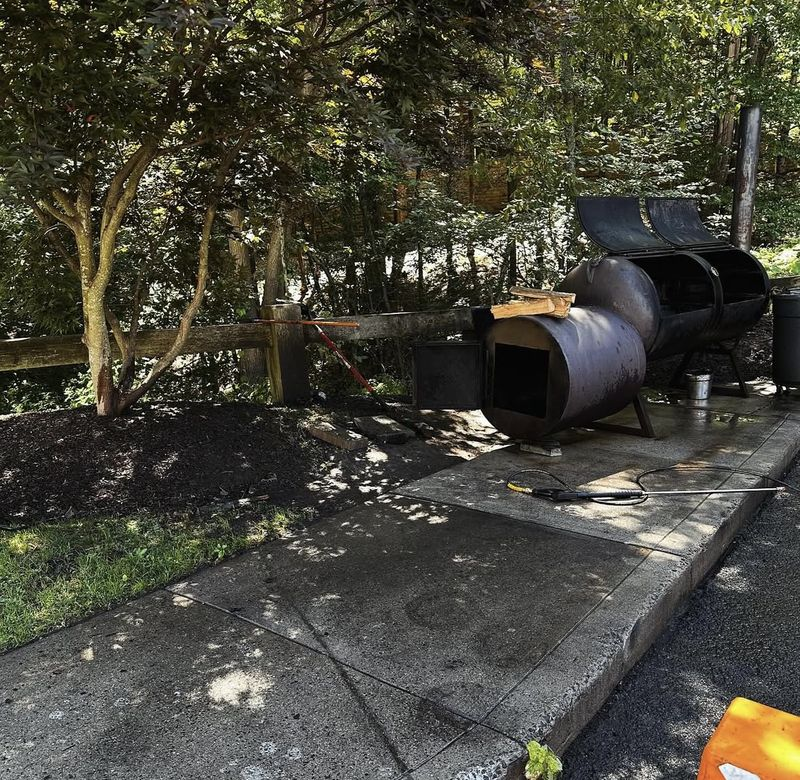
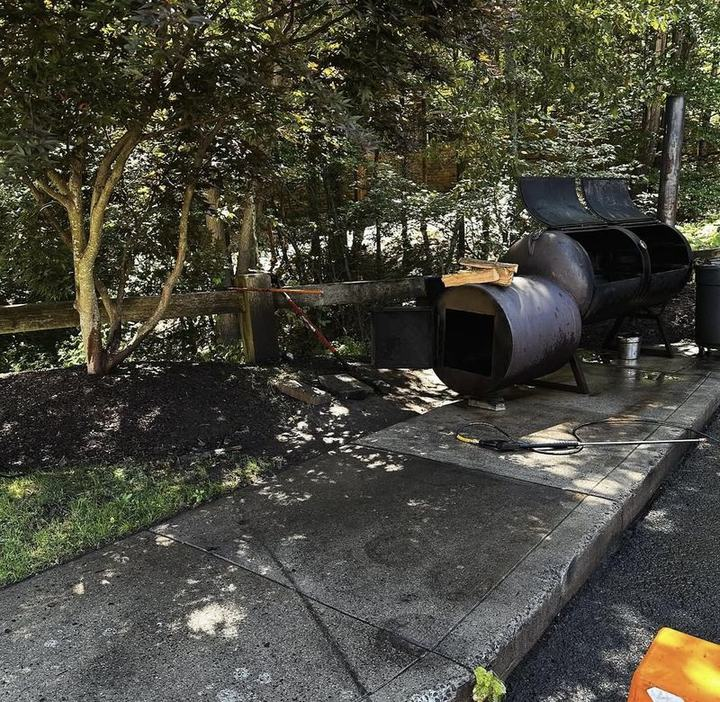
A2 prototype: SEO, structure, and alt text audit with fixes
Add founder and sameAs to business schema, drop a non-standard schema
property, add Related guides links from service pages to articles,
recompress heavy photos, eager-load top-of-page images, add per-page
social share images, shorten an over-long alt. Findings and remaining
launch items in SEO-AUDIT.md.

Claude-Session: https://claude.ai/code/session_01CxV4BDXSSMYwEUMBB25tfR

diff --git a/mockups/a2-exteriors/site/services/driveway-concrete-cleaning.html b/mockups/a2-exteriors/site/services/driveway-concrete-cleaning.html
@@ -12,7 +12,7 @@
 <meta property="og:title" content="Driveway and Concrete Cleaning in CT | A2 Exteriors">
 <meta property="og:description" content="Driveway pressure washing and concrete cleaning in Central CT. Removes mildew, tire marks, and leaf stains. Free quotes: 860-430-4568.">
 <meta property="og:url" content="https://{{DOMAIN}}/services/driveway-concrete-cleaning">
-<meta property="og:image" content="https://{{DOMAIN}}/images/og-default.jpg">
+<meta property="og:image" content="https://{{DOMAIN}}/images/og-concrete.jpg">
 <meta name="twitter:card" content="summary_large_image">
 <meta name="theme-color" content="#123B51">
 <link rel="icon" href="../images/favicon.png">
@@ -198,6 +198,7 @@
         <h3>Other services</h3>
         <ul class="side-links"><li><a href="house-washing.html">House Washing</a></li><li><a href="roof-washing.html">Roof Washing</a></li><li><a href="patio-walkway-cleaning.html">Patio and Walkway Cleaning</a></li><li><a href="commercial-exterior-cleaning.html">Commercial Exterior Cleaning</a></li></ul>
       </div>
+      <div class="side-card"><h3>Related guides</h3><ul class="side-links"><li><a href="../resources/pressure-washing-vs-soft-washing.html">Pressure washing vs. soft washing: which does your home need?</a></li></ul></div>
     </aside>
   </div>
 </section>
@@ -208,12 +209,12 @@
     </div>
     <div class="grid-2">
       <figure class="pair" aria-label="Before and after: driveway cleaning, project 1">
-  <div class="pair-pane"><img class="pair-img" src="../images/concrete-sidewalk-simsbury-before.webp" alt="Before: restaurant sidewalk in Simsbury beside an outdoor smoker, stained and dark in the shade" width="800" height="780" loading="lazy" decoding="async"><span class="compare-tag is-before">Before</span></div>
-  <div class="pair-pane"><img class="pair-img" src="../images/concrete-sidewalk-simsbury-after.webp" alt="After: the same sidewalk area pressure washed, the concrete lighter and even" width="800" height="780" loading="lazy" decoding="async"><span class="compare-tag is-after">After</span></div>
+  <div class="pair-pane"><img class="pair-img" src="../images/concrete-sidewalk-simsbury-before.webp" alt="Before: restaurant sidewalk in Simsbury beside an outdoor smoker, stained and dark in the shade" width="720" height="702" loading="lazy" decoding="async"><span class="compare-tag is-before">Before</span></div>
+  <div class="pair-pane"><img class="pair-img" src="../images/concrete-sidewalk-simsbury-after.webp" alt="After: the same sidewalk area pressure washed, the concrete lighter and even" width="800" height="726" loading="lazy" decoding="async"><span class="compare-tag is-after">After</span></div>
 </figure>
       <figure class="pair" aria-label="Before and after: driveway cleaning, project 2">
-  <div class="pair-pane"><img class="pair-img" src="../images/concrete-curb-simsbury-before.webp" alt="Before: concrete curb and sidewalk at a Simsbury restaurant, dark with grime and weeds at the edge" width="600" height="1103" loading="lazy" decoding="async"><span class="compare-tag is-before">Before</span></div>
-  <div class="pair-pane"><img class="pair-img" src="../images/concrete-curb-simsbury-after.webp" alt="After: the restaurant sidewalk and parking lot after pressure washing" width="600" height="1103" loading="lazy" decoding="async"><span class="compare-tag is-after">After</span></div>
+  <div class="pair-pane"><img class="pair-img" src="../images/concrete-curb-simsbury-before.webp" alt="Before: concrete curb and sidewalk at a Simsbury restaurant, dark with grime and weeds at the edge" width="500" height="918" loading="lazy" decoding="async"><span class="compare-tag is-before">Before</span></div>
+  <div class="pair-pane"><img class="pair-img" src="../images/concrete-curb-simsbury-after.webp" alt="After: the restaurant sidewalk and parking lot after pressure washing" width="800" height="651" loading="lazy" decoding="async"><span class="compare-tag is-after">After</span></div>
 </figure>
     </div>
     <p style="margin-top:2rem"><a class="text-link" href="../our-work.html">See Our Work</a></p>
@@ -281,7 +282,7 @@
     </div>
     <div class="footer-bottom">
       <span>© <span data-year>2026</span> A2 Exteriors. All rights reserved.</span>
-      <span><a href="../privacy.html">Privacy</a></span>
+      <span><a href="https://www.instagram.com/a2exteriors/" rel="noopener">Instagram</a> · <a href="../privacy.html">Privacy</a></span>
     </div>
   </div>
 </footer>

diff --git a/mockups/a2-exteriors/site/our-work.html b/mockups/a2-exteriors/site/our-work.html
@@ -12,7 +12,7 @@
 <meta property="og:title" content="Before and After Photos | Our Work | A2 Exteriors">
 <meta property="og:description" content="Before and after photos of house washing, roof washing, driveway, patio, and commercial cleaning jobs by A2 Exteriors in Central Connecticut.">
 <meta property="og:url" content="https://{{DOMAIN}}/our-work">
-<meta property="og:image" content="https://{{DOMAIN}}/images/og-default.jpg">
+<meta property="og:image" content="https://{{DOMAIN}}/images/og-our-work.jpg">
 <meta name="twitter:card" content="summary_large_image">
 <meta name="theme-color" content="#123B51">
 <link rel="icon" href="images/favicon.png">
@@ -88,8 +88,8 @@
       <article class="project-card reveal" data-service="house-washing">
   <figure class="compare" style="--pos: 50%">
   <div class="compare-stage">
-    <div class="compare-pane is-before"><img class="compare-img" src="images/house-wash-vinyl-siding-garage-before.webp" alt="Before: green algae and mildew streaks across cream vinyl siding above a two-car garage" width="622" height="887" loading="lazy" decoding="async" style="object-position: 50% 55%"></div>
-    <div class="compare-pane is-after"><img class="compare-img" src="images/house-wash-vinyl-siding-garage-after.webp" alt="After: the same vinyl siding, trim, and garage doors clean following a house wash" width="622" height="887" loading="lazy" decoding="async" style="object-position: 50% 55%"></div>
+    <div class="compare-pane is-before"><img class="compare-img" src="images/house-wash-vinyl-siding-garage-before.webp" alt="Before: green algae and mildew streaks across cream vinyl siding above a two-car garage" width="622" height="887" fetchpriority="high" decoding="async" style="object-position: 50% 55%"></div>
+    <div class="compare-pane is-after"><img class="compare-img" src="images/house-wash-vinyl-siding-garage-after.webp" alt="After: the same vinyl siding, trim, and garage doors clean following a house wash" width="622" height="887" fetchpriority="high" decoding="async" style="object-position: 50% 55%"></div>
     <span class="compare-tag is-before">Before</span>
     <span class="compare-tag is-after">After</span>
     <span class="compare-line" aria-hidden="true"><span class="compare-handle"></span></span>
@@ -113,8 +113,8 @@
   <h3>Asphalt shingle roof</h3>
 </article><article class="project-card reveal" data-service="driveway-concrete-cleaning">
   <figure class="pair" aria-label="Before and after: restaurant sidewalks and curbs, concrete cleaning">
-  <div class="pair-pane"><img class="pair-img" src="images/concrete-curb-simsbury-before.webp" alt="Before: concrete curb and sidewalk at a Simsbury restaurant, dark with grime and weeds at the edge" width="600" height="1103" loading="lazy" decoding="async"><span class="compare-tag is-before">Before</span></div>
-  <div class="pair-pane"><img class="pair-img" src="images/concrete-curb-simsbury-after.webp" alt="After: the restaurant sidewalk and parking lot after pressure washing" width="600" height="1103" loading="lazy" decoding="async"><span class="compare-tag is-after">After</span></div>
+  <div class="pair-pane"><img class="pair-img" src="images/concrete-curb-simsbury-before.webp" alt="Before: concrete curb and sidewalk at a Simsbury restaurant, dark with grime and weeds at the edge" width="500" height="918" loading="lazy" decoding="async"><span class="compare-tag is-before">Before</span></div>
+  <div class="pair-pane"><img class="pair-img" src="images/concrete-curb-simsbury-after.webp" alt="After: the restaurant sidewalk and parking lot after pressure washing" width="800" height="651" loading="lazy" decoding="async"><span class="compare-tag is-after">After</span></div>
 </figure>
   <p class="meta">Simsbury, CT / Concrete cleaning</p>
   <h3>Restaurant sidewalks and curbs</h3>
@@ -221,7 +221,7 @@
     </div>
     <div class="footer-bottom">
       <span>© <span data-year>2026</span> A2 Exteriors. All rights reserved.</span>
-      <span><a href="privacy.html">Privacy</a></span>
+      <span><a href="https://www.instagram.com/a2exteriors/" rel="noopener">Instagram</a> · <a href="privacy.html">Privacy</a></span>
     </div>
   </div>
 </footer>

diff --git a/mockups/a2-exteriors/site/services/patio-walkway-cleaning.html b/mockups/a2-exteriors/site/services/patio-walkway-cleaning.html
@@ -12,7 +12,7 @@
 <meta property="og:title" content="Patio and Paver Cleaning in Central CT | A2 Exteriors">
 <meta property="og:description" content="Patio, paver, and walkway cleaning in Central CT. Removes slippery algae, moss, and grime from pavers, brick, and stone. Call 860-430-4568.">
 <meta property="og:url" content="https://{{DOMAIN}}/services/patio-walkway-cleaning">
-<meta property="og:image" content="https://{{DOMAIN}}/images/og-default.jpg">
+<meta property="og:image" content="https://{{DOMAIN}}/images/og-patio-walkway.jpg">
 <meta name="twitter:card" content="summary_large_image">
 <meta name="theme-color" content="#123B51">
 <link rel="icon" href="../images/favicon.png">
@@ -195,6 +195,7 @@
         <h3>Other services</h3>
         <ul class="side-links"><li><a href="house-washing.html">House Washing</a></li><li><a href="roof-washing.html">Roof Washing</a></li><li><a href="driveway-concrete-cleaning.html">Driveway and Concrete Cleaning</a></li><li><a href="commercial-exterior-cleaning.html">Commercial Exterior Cleaning</a></li></ul>
       </div>
+      <div class="side-card"><h3>Related guides</h3><ul class="side-links"><li><a href="../resources/pressure-washing-vs-soft-washing.html">Pressure washing vs. soft washing: which does your home need?</a></li></ul></div>
     </aside>
   </div>
 </section>
@@ -215,8 +216,8 @@
   </div>
 </figure>
       <figure class="pair" aria-label="Before and after: patio cleaning, project 2">
-  <div class="pair-pane"><img class="pair-img" src="../images/paver-walkway-farmington-before.webp" alt="Before: curved paver front walkway in Farmington, darkened with grime and weeds in the joints" width="800" height="904" loading="lazy" decoding="async"><span class="compare-tag is-before">Before</span></div>
-  <div class="pair-pane"><img class="pair-img" src="../images/paver-walkway-farmington-after.webp" alt="After: the same walkway cleaned, the pavers and border bands showing their color" width="800" height="904" loading="lazy" decoding="async"><span class="compare-tag is-after">After</span></div>
+  <div class="pair-pane"><img class="pair-img" src="../images/paver-walkway-farmington-before.webp" alt="Before: curved paver front walkway in Farmington, darkened with grime and weeds in the joints" width="720" height="814" loading="lazy" decoding="async"><span class="compare-tag is-before">Before</span></div>
+  <div class="pair-pane"><img class="pair-img" src="../images/paver-walkway-farmington-after.webp" alt="After: the same walkway cleaned, the pavers and border bands showing their color" width="720" height="814" loading="lazy" decoding="async"><span class="compare-tag is-after">After</span></div>
 </figure>
     </div>
     <p style="margin-top:2rem"><a class="text-link" href="../our-work.html">See Our Work</a></p>
@@ -284,7 +285,7 @@
     </div>
     <div class="footer-bottom">
       <span>© <span data-year>2026</span> A2 Exteriors. All rights reserved.</span>
-      <span><a href="../privacy.html">Privacy</a></span>
+      <span><a href="https://www.instagram.com/a2exteriors/" rel="noopener">Instagram</a> · <a href="../privacy.html">Privacy</a></span>
     </div>
   </div>
 </footer>

diff --git a/mockups/a2-exteriors/site/index.html b/mockups/a2-exteriors/site/index.html
@@ -58,7 +58,14 @@
    }
   }
  ],
- "_comment": "Add every confirmed town to areaServed, sameAs [GBP URL], and email before launch. No street address: A2 is a service-area business."
+ "founder": {
+  "@type": "Person",
+  "name": "Anthony Aubrey",
+  "jobTitle": "Owner"
+ },
+ "sameAs": [
+  "https://www.instagram.com/a2exteriors/"
+ ]
 }</script>
 <script type="application/ld+json">{
  "@context": "https://schema.org",
@@ -229,7 +236,7 @@
         <p>Low-pressure roof cleaning that removes black streaks, algae, and moss from shingles.</p>
       </article>
       <article class="svc-card reveal">
-        <div class="svc-card-photo"><img class="svc-card-img" src="images/patio-pavers-farmington-half-cleaned.webp" alt="Herringbone paver patio in Farmington partway through cleaning, the cleaned section red and tan beside the gray uncleaned pavers" width="800" height="905" loading="lazy" decoding="async"></div>
+        <div class="svc-card-photo"><img class="svc-card-img" src="images/patio-pavers-farmington-half-cleaned.webp" alt="Farmington paver patio partway through cleaning, cleaned pavers red and tan beside gray uncleaned ones" width="800" height="905" loading="lazy" decoding="async"></div>
         <h3>Driveways &amp; Patios</h3>
         <p>Pressure cleaning for concrete, pavers, brick, and stone.</p>
         <p class="svc-card-links"><a href="services/driveway-concrete-cleaning.html">Driveways and concrete</a><a href="services/patio-walkway-cleaning.html">Patios and walkways</a></p>
@@ -408,7 +415,7 @@
     </div>
     <div class="footer-bottom">
       <span>© <span data-year>2026</span> A2 Exteriors. All rights reserved.</span>
-      <span><a href="privacy.html">Privacy</a></span>
+      <span><a href="https://www.instagram.com/a2exteriors/" rel="noopener">Instagram</a> · <a href="privacy.html">Privacy</a></span>
     </div>
   </div>
 </footer>

diff --git a/mockups/a2-exteriors/site/services/house-washing.html b/mockups/a2-exteriors/site/services/house-washing.html
@@ -12,7 +12,7 @@
 <meta property="og:title" content="House Washing in Central Connecticut | A2 Exteriors">
 <meta property="og:description" content="Soft wash house washing for vinyl, clapboard, and painted siding in Central CT. Removes algae, mildew, and dirt. Free quotes: 860-430-4568.">
 <meta property="og:url" content="https://{{DOMAIN}}/services/house-washing">
-<meta property="og:image" content="https://{{DOMAIN}}/images/og-default.jpg">
+<meta property="og:image" content="https://{{DOMAIN}}/images/house-wash-vinyl-siding-garage-after.jpg">
 <meta name="twitter:card" content="summary_large_image">
 <meta name="theme-color" content="#123B51">
 <link rel="icon" href="../images/favicon.png">
@@ -208,6 +208,7 @@
         <h3>Other services</h3>
         <ul class="side-links"><li><a href="roof-washing.html">Roof Washing</a></li><li><a href="driveway-concrete-cleaning.html">Driveway and Concrete Cleaning</a></li><li><a href="patio-walkway-cleaning.html">Patio and Walkway Cleaning</a></li><li><a href="commercial-exterior-cleaning.html">Commercial Exterior Cleaning</a></li></ul>
       </div>
+      <div class="side-card"><h3>Related guides</h3><ul class="side-links"><li><a href="../resources/how-often-to-wash-house.html">How often should you wash your house in Connecticut?</a></li><li><a href="../resources/pressure-washing-vs-soft-washing.html">Pressure washing vs. soft washing: which does your home need?</a></li></ul></div>
     </aside>
   </div>
 </section>
@@ -303,7 +304,7 @@
     </div>
     <div class="footer-bottom">
       <span>© <span data-year>2026</span> A2 Exteriors. All rights reserved.</span>
-      <span><a href="../privacy.html">Privacy</a></span>
+      <span><a href="https://www.instagram.com/a2exteriors/" rel="noopener">Instagram</a> · <a href="../privacy.html">Privacy</a></span>
     </div>
   </div>
 </footer>

diff --git a/mockups/a2-exteriors/site/about.html b/mockups/a2-exteriors/site/about.html
@@ -12,7 +12,7 @@
 <meta property="og:title" content="About A2 Exteriors | Locally Owned Exterior Cleaning">
 <meta property="og:description" content="A2 Exteriors is a locally owned exterior cleaning company in Central Connecticut, owned by Anthony Aubrey. Learn how we work.">
 <meta property="og:url" content="https://{{DOMAIN}}/about">
-<meta property="og:image" content="https://{{DOMAIN}}/images/og-default.jpg">
+<meta property="og:image" content="https://{{DOMAIN}}/images/og-about.jpg">
 <meta name="twitter:card" content="summary_large_image">
 <meta name="theme-color" content="#123B51">
 <link rel="icon" href="images/favicon.png">
@@ -92,7 +92,7 @@
       <h2>Licensing and insurance</h2>
       <p><span class="tbc">Connecticut registration or license number, and insurance details. Shown only once confirmed.</span></p>
     </div>
-    <div class="owner-photo"><img class="owner-img" src="images/anthony-aubrey-working.webp" alt="Anthony Aubrey of A2 Exteriors pressure washing a driveway, seen from behind" width="800" height="1000" loading="lazy" decoding="async"></div>
+    <div class="owner-photo"><img class="owner-img" src="images/anthony-aubrey-working.webp" alt="Anthony Aubrey of A2 Exteriors pressure washing a driveway, seen from behind" width="800" height="1000" fetchpriority="high" decoding="async"></div>
   </div>
 </section>
 
@@ -151,7 +151,7 @@
     </div>
     <div class="footer-bottom">
       <span>© <span data-year>2026</span> A2 Exteriors. All rights reserved.</span>
-      <span><a href="privacy.html">Privacy</a></span>
+      <span><a href="https://www.instagram.com/a2exteriors/" rel="noopener">Instagram</a> · <a href="privacy.html">Privacy</a></span>
     </div>
   </div>
 </footer>

diff --git a/mockups/a2-exteriors/site/services/commercial-exterior-cleaning.html b/mockups/a2-exteriors/site/services/commercial-exterior-cleaning.html
@@ -12,7 +12,7 @@
 <meta property="og:title" content="Commercial Pressure Washing in Central CT | A2 Exteriors">
 <meta property="og:description" content="Commercial exterior cleaning in Central Connecticut for storefronts, entryways, sidewalks, and building walls. Free quotes: 860-430-4568.">
 <meta property="og:url" content="https://{{DOMAIN}}/services/commercial-exterior-cleaning">
-<meta property="og:image" content="https://{{DOMAIN}}/images/og-default.jpg">
+<meta property="og:image" content="https://{{DOMAIN}}/images/og-commercial.jpg">
 <meta name="twitter:card" content="summary_large_image">
 <meta name="theme-color" content="#123B51">
 <link rel="icon" href="../images/favicon.png">
@@ -193,6 +193,7 @@
         <h3>Other services</h3>
         <ul class="side-links"><li><a href="house-washing.html">House Washing</a></li><li><a href="roof-washing.html">Roof Washing</a></li><li><a href="driveway-concrete-cleaning.html">Driveway and Concrete Cleaning</a></li><li><a href="patio-walkway-cleaning.html">Patio and Walkway Cleaning</a></li></ul>
       </div>
+      
     </aside>
   </div>
 </section>
@@ -288,7 +289,7 @@
     </div>
     <div class="footer-bottom">
       <span>© <span data-year>2026</span> A2 Exteriors. All rights reserved.</span>
-      <span><a href="../privacy.html">Privacy</a></span>
+      <span><a href="https://www.instagram.com/a2exteriors/" rel="noopener">Instagram</a> · <a href="../privacy.html">Privacy</a></span>
     </div>
   </div>
 </footer>

diff --git a/mockups/a2-exteriors/site/services/roof-washing.html b/mockups/a2-exteriors/site/services/roof-washing.html
@@ -194,6 +194,7 @@
         <h3>Other services</h3>
         <ul class="side-links"><li><a href="house-washing.html">House Washing</a></li><li><a href="driveway-concrete-cleaning.html">Driveway and Concrete Cleaning</a></li><li><a href="patio-walkway-cleaning.html">Patio and Walkway Cleaning</a></li><li><a href="commercial-exterior-cleaning.html">Commercial Exterior Cleaning</a></li></ul>
       </div>
+      <div class="side-card"><h3>Related guides</h3><ul class="side-links"><li><a href="../resources/black-streaks-on-roof.html">Black streaks on your roof: what causes them and how to clean them</a></li></ul></div>
     </aside>
   </div>
 </section>
@@ -289,7 +290,7 @@
     </div>
     <div class="footer-bottom">
       <span>© <span data-year>2026</span> A2 Exteriors. All rights reserved.</span>
-      <span><a href="../privacy.html">Privacy</a></span>
+      <span><a href="https://www.instagram.com/a2exteriors/" rel="noopener">Instagram</a> · <a href="../privacy.html">Privacy</a></span>
     </div>
   </div>
 </footer>

diff --git a/mockups/a2-exteriors/site/resources/black-streaks-on-roof.html b/mockups/a2-exteriors/site/resources/black-streaks-on-roof.html
@@ -198,7 +198,7 @@
     </div>
     <div class="footer-bottom">
       <span>© <span data-year>2026</span> A2 Exteriors. All rights reserved.</span>
-      <span><a href="../privacy.html">Privacy</a></span>
+      <span><a href="https://www.instagram.com/a2exteriors/" rel="noopener">Instagram</a> · <a href="../privacy.html">Privacy</a></span>
     </div>
   </div>
 </footer>

diff --git a/mockups/a2-exteriors/site/resources/how-often-to-wash-house.html b/mockups/a2-exteriors/site/resources/how-often-to-wash-house.html
@@ -195,7 +195,7 @@
     </div>
     <div class="footer-bottom">
       <span>© <span data-year>2026</span> A2 Exteriors. All rights reserved.</span>
-      <span><a href="../privacy.html">Privacy</a></span>
+      <span><a href="https://www.instagram.com/a2exteriors/" rel="noopener">Instagram</a> · <a href="../privacy.html">Privacy</a></span>
     </div>
   </div>
 </footer>

diff --git a/mockups/a2-exteriors/site/resources/index.html b/mockups/a2-exteriors/site/resources/index.html
@@ -153,7 +153,7 @@
     </div>
     <div class="footer-bottom">
       <span>© <span data-year>2026</span> A2 Exteriors. All rights reserved.</span>
-      <span><a href="../privacy.html">Privacy</a></span>
+      <span><a href="https://www.instagram.com/a2exteriors/" rel="noopener">Instagram</a> · <a href="../privacy.html">Privacy</a></span>
     </div>
   </div>
 </footer>

diff --git a/mockups/a2-exteriors/site/resources/pressure-washing-vs-soft-washing.html b/mockups/a2-exteriors/site/resources/pressure-washing-vs-soft-washing.html
@@ -201,7 +201,7 @@
     </div>
     <div class="footer-bottom">
       <span>© <span data-year>2026</span> A2 Exteriors. All rights reserved.</span>
-      <span><a href="../privacy.html">Privacy</a></span>
+      <span><a href="https://www.instagram.com/a2exteriors/" rel="noopener">Instagram</a> · <a href="../privacy.html">Privacy</a></span>
     </div>
   </div>
 </footer>
